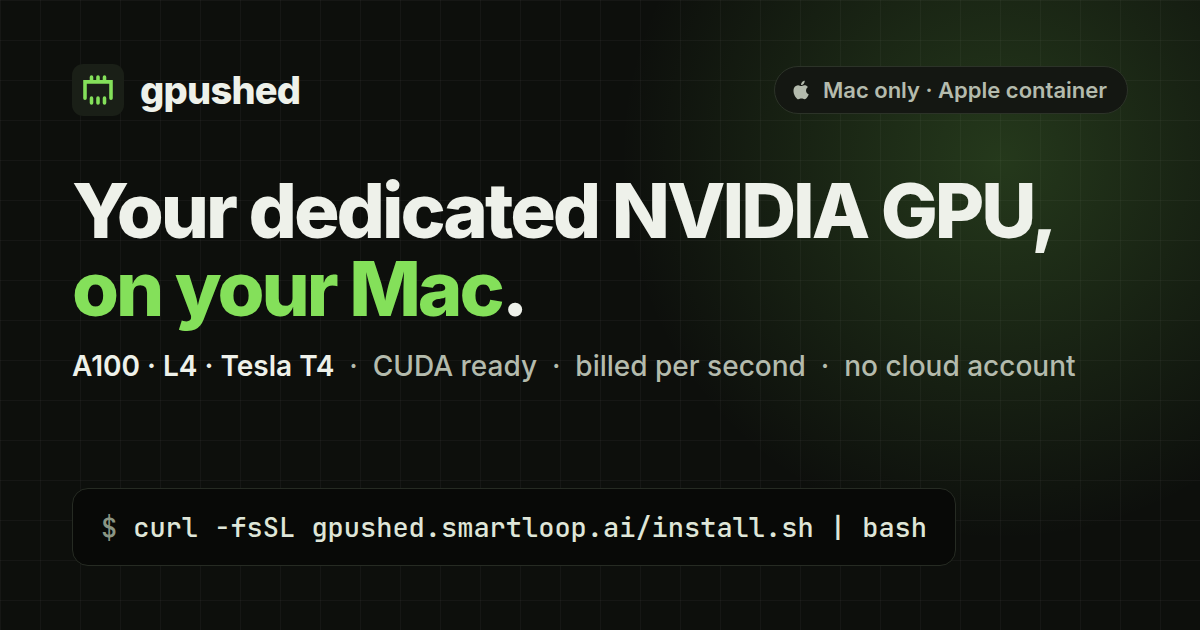
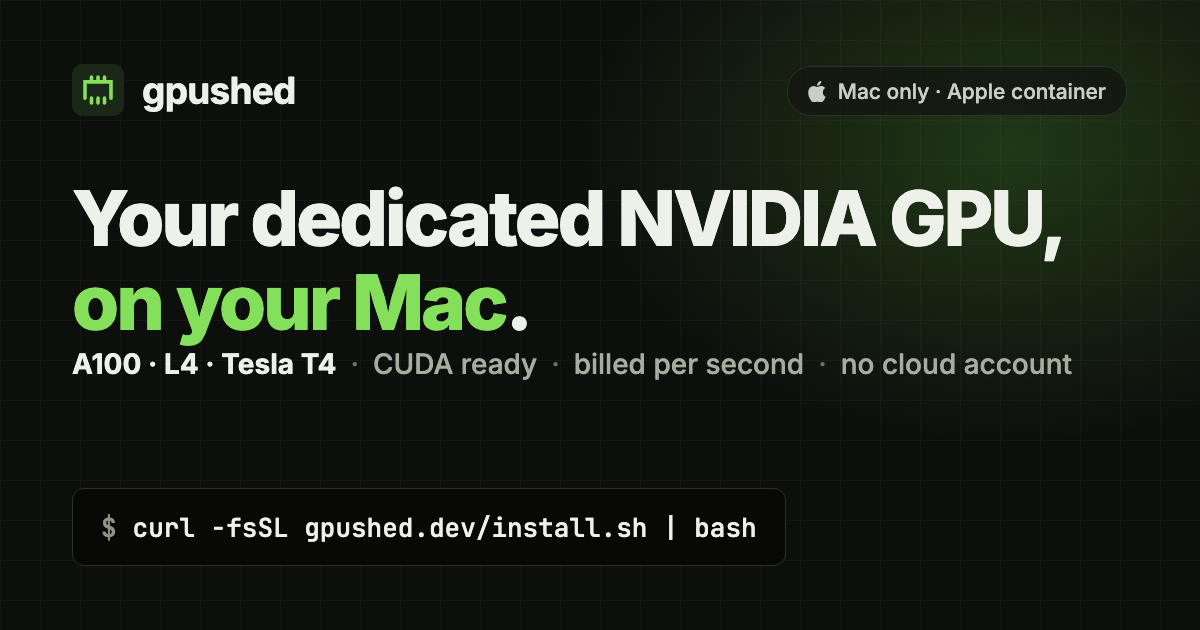
Show the default L4 in the site's terminal demo; refresh the card image
The hero terminal runs plain gpushed up on the L4 (the default) instead
of gpushed up a100. The link-preview card now shows the gpushed.dev
install command.

diff --git a/site/index.html b/site/index.html
@@ -291,10 +291,10 @@
       </div>
     </div>
 
-    <div class="term" role="img" aria-label="Terminal: gpushed up a100 creates an A100 box and installs CUDA; nvidia-smi shows the GPU">
+    <div class="term" role="img" aria-label="Terminal: gpushed up creates an L4 box with CUDA ready; nvidia-smi shows the GPU">
       <div class="term-bar"><i></i><i></i><i></i></div>
-<pre><span class="t-cmd">gpushed up a100</span>
-<span class="t-dim">🚀 Creating box b7k2… (a100, $4.44/h)</span>
+<pre><span class="t-cmd">gpushed up</span>
+<span class="t-dim">🚀 Creating box b7k2… (l4, $0.88/h)</span>
 <span class="t-dim">   … pending</span>
 <span class="t-dim">   … running</span>
 <span class="t-g">✅ Running</span>
@@ -304,7 +304,7 @@
 <span class="t-cmd">gpushed ssh</span>
 <span class="t-dim">boxuser@gp-b7k2:~$</span> nvidia-smi --query-gpu=name,memory.total --format=csv
 name, memory.total [MiB]
-<span class="t-a">NVIDIA A100-SXM4-40GB, 40960 MiB</span>
+<span class="t-a">NVIDIA L4, 23034 MiB</span>
 <span class="t-dim">boxuser@gp-b7k2:~$</span> python train.py<span class="t-g">▌</span></pre>
     </div>
   </div>
